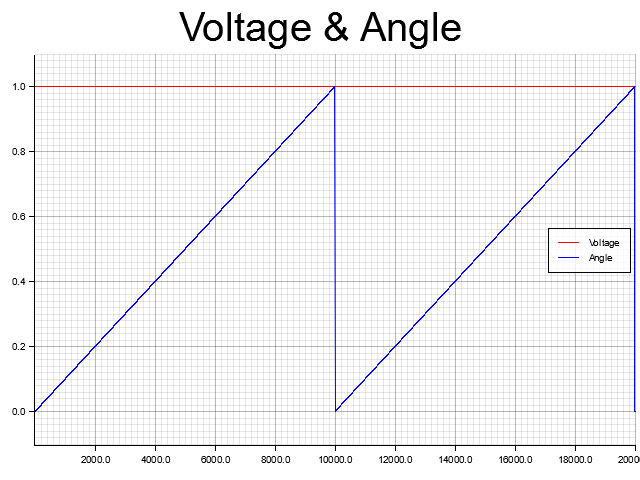
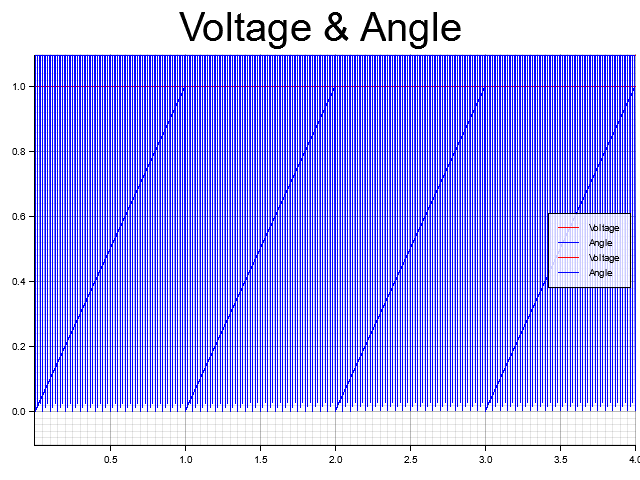
Update simulation to have line dynamics; Seeing bad results

diff --git a/src/main.rs b/src/main.rs
@@ -3,12 +3,22 @@
 use std::*;
 use plotters::prelude::*;
 use unifi_gfm::dvoc::build_dvoc_controller as dvoc_controller;
-use unifi_gfm::refs::alpha_beta_fr_polar;
+use unifi_gfm::sims::build_rl_line as rl_line;
+use unifi_gfm::sims::build_ac_volt_src as ac_vs;
+use unifi_gfm::sims::Dynamics;
+use unifi_gfm::sims::NoInputStep;
+use unifi_gfm::sims;
+use unifi_gfm::calc;
+use unifi_gfm::refs::{alpha_beta_fr_polar, alpha_beta_fr_ab};
 use unifi_gfm::constants::PI;
 //use unifi_gfm::dvoc::test;
 
 const OUT_FILE_NAME: &'static str = "images/sample.png";
+const POWER_OUT_FILE_NAME: &'static str = "images/powers.png";
 fn main() -> Result<(), Box<dyn std::error::Error>> {
+    /* 
+    DEFINE SYSTEM PARAMETERS & CONSTRUCT OBJECTS
+    */
     let v_nom: f32 = 120.;
     let f_nom: f32 = 60.;
     let w_nom: f32 = f_nom * 2. * PI;
@@ -17,24 +27,61 @@ fn main() -> Result<(), Box<dyn std::error::Error>> {
     let xi: f32 = 15.;
     let c: f32 = 0.2679;
     let mut dvoc = dvoc_controller(v_nom, w_nom, s_rated, dt, xi, c);
-    let u = alpha_beta_fr_polar(0., 0.);
-    // dvoc.step((u.alpha, u.beta));
-    // println!("v: {}, theta: {}", dvoc.v, dvoc.theta);
 
-    const n_steps: u32 = 20000;
+    let rf = 0.8;
+    let lf = 1.5e-3;
+    let mut line: sims::RLFilter = rl_line(w_nom, s_rated, rf, lf);
+    let mut grid: sims::ACVoltSrc = ac_vs(v_nom, w_nom, s_rated);
+
+    /* 
+    RUNNING DYNAMICAL SIMULATION
+    */
+    const n_steps: u32 = 40000;  // TODO: Change this to UPPERCASE or make it a variable
     let t_end = n_steps as f32 * dt;
-    let steps = (0..n_steps+1);
-    let mut v_values: [(f32, f32); (n_steps + 1) as usize] = [(0., 0.); (n_steps + 1) as usize];
-    let mut theta_values: [(f32, f32); (n_steps + 1) as usize] = [(0., 0.); (n_steps + 1) as usize];
-    for step in steps {
-        v_values[step as usize] = (step as f32, dvoc.v);
-        theta_values[step as usize] = (step as f32, dvoc.theta);
-        dvoc.step((u.alpha, u.beta))
+    let steps: Vec<u32> = (0..n_steps+1).collect();
+    let mut t: f32;
+    let mut p: f32; let mut q: f32;
+    let mut v_values: Vec<(f32, f32)> = vec![(0., 0.); (n_steps+1) as usize];
+    let mut theta_values: Vec<(f32, f32)> = vec![(0., 0.); (n_steps+1) as usize];
+    let mut vg_values: Vec<(f32, f32)> = vec![(0., 0.); (n_steps+1) as usize];
+    let mut thetag_values: Vec<(f32, f32)> = vec![(0., 0.); (n_steps+1) as usize];
+    let mut p_values: Vec<(f32, f32)> = vec![(0., 0.); (n_steps+1) as usize];
+    let mut q_values: Vec<(f32, f32)> = vec![(0., 0.); (n_steps+1) as usize];
+    for step in steps {  // TODO: Debug this simulation. Power / Current values seem wonky
+        t = step as f32 * dt;
+        if t > (t_end / 2.) {
+            dvoc.set_p_ref(1.0);
+        }
+
+        // Collect voltage values
+        v_values[step as usize] = (t, dvoc.v);
+        theta_values[step as usize] = (t, dvoc.theta);
+        vg_values[step as usize] = (t, grid.v);
+        thetag_values[step as usize] = (t, grid.theta);
+
+        dvoc.step((line.i_alpha, line.i_beta));
+        
+        let v = alpha_beta_fr_polar(dvoc.kv * dvoc.v, (dvoc.w_nom * dvoc.theta) % (2.*PI));
+        let i = alpha_beta_fr_ab(line.i_alpha, line.i_beta);
+        (p, q) = calc::calc_power(v, i);
+        p_values[step as usize] = (t, p);
+        q_values[step as usize] = (t, q);
+
+        grid.step_(dt);
+        line.step(dt, [dvoc.kv * dvoc.v, (dvoc.w_nom * dvoc.theta) % (2.*PI), grid.v, grid.theta]);
     }
-    println!("{}, {}", dvoc.v * dvoc.v_nom, dvoc.theta * dvoc.w_nom);
+    println!("v: {}, theta: {}", dvoc.v * dvoc.v_nom, (dvoc.w_nom * dvoc.theta) % (2.*PI));
+    println!("ia: {}, ib: {}", line.i_alpha, line.i_beta);
+    println!("vg: {}, thetag: {}", grid.v, grid.theta);
+
+    /* 
+    PLOTTING THE RESULTS
+    */
 
     let v_values_ = v_values.to_vec();
     let theta_values_ = theta_values.to_vec();
+    let p_values_ = p_values.to_vec();
+    let q_values_ = q_values.to_vec();
 
     // Plot the data
     let root = BitMapBackend::new(OUT_FILE_NAME, (640, 480)).into_drawing_area();
@@ -44,7 +91,7 @@ fn main() -> Result<(), Box<dyn std::error::Error>> {
         .margin(5 as u32)
         .x_label_area_size(30 as u32)
         .y_label_area_size(30 as u32)
-        .build_cartesian_2d(0.0f32..n_steps as f32, -0.1f32..1.1f32)?;
+        .build_cartesian_2d(0.0f32..t_end, -0.1f32..1.1f32)?;
 
     chart.configure_mesh().draw()?;
 
@@ -62,6 +109,58 @@ fn main() -> Result<(), Box<dyn std::error::Error>> {
             &BLUE,
         ))?
         .label("Angle")
+        .legend(|(x, y)| PathElement::new(vec![(x, y), (x + 20, y)], &BLUE));
+    
+    chart
+        .draw_series(LineSeries::new(
+            vg_values,
+            &RED,
+        ))?
+        .label("Grid Voltage")
+        .legend(|(x, y)| PathElement::new(vec![(x, y), (x + 20, y)], &RED));
+
+    chart
+        .draw_series(LineSeries::new(
+            thetag_values,
+            &BLUE,
+        ))?
+        .label("Grid Angle")
+        .legend(|(x, y)| PathElement::new(vec![(x, y), (x + 20, y)], &BLUE));
+    chart
+        .configure_series_labels()
+        .background_style(&WHITE.mix(0.8))
+        .border_style(&BLACK)
+        .draw()?;
+
+    root.present()?;
+
+
+    // Plot the power data
+    let root = BitMapBackend::new(POWER_OUT_FILE_NAME, (640, 480)).into_drawing_area();
+    root.fill(&WHITE)?;
+    let mut chart = ChartBuilder::on(&root)
+        .caption("Active & Reactive Powers", ("sans-serif", 50).into_font())
+        .margin(5 as u32)
+        .x_label_area_size(30 as u32)
+        .y_label_area_size(30 as u32)
+        .build_cartesian_2d(0.0f32..t_end, -10.0f32..110.0f32)?;
+
+    chart.configure_mesh().draw()?;
+
+    chart
+        .draw_series(LineSeries::new(
+            p_values_,
+            &RED,
+        ))?
+        .label("P")
+        .legend(|(x, y)| PathElement::new(vec![(x, y), (x + 20, y)], &RED));
+
+    chart
+        .draw_series(LineSeries::new(
+            q_values_,
+            &BLUE,
+        ))?
+        .label("Q")
         .legend(|(x, y)| PathElement::new(vec![(x, y), (x + 20, y)], &BLUE));
 
     chart
